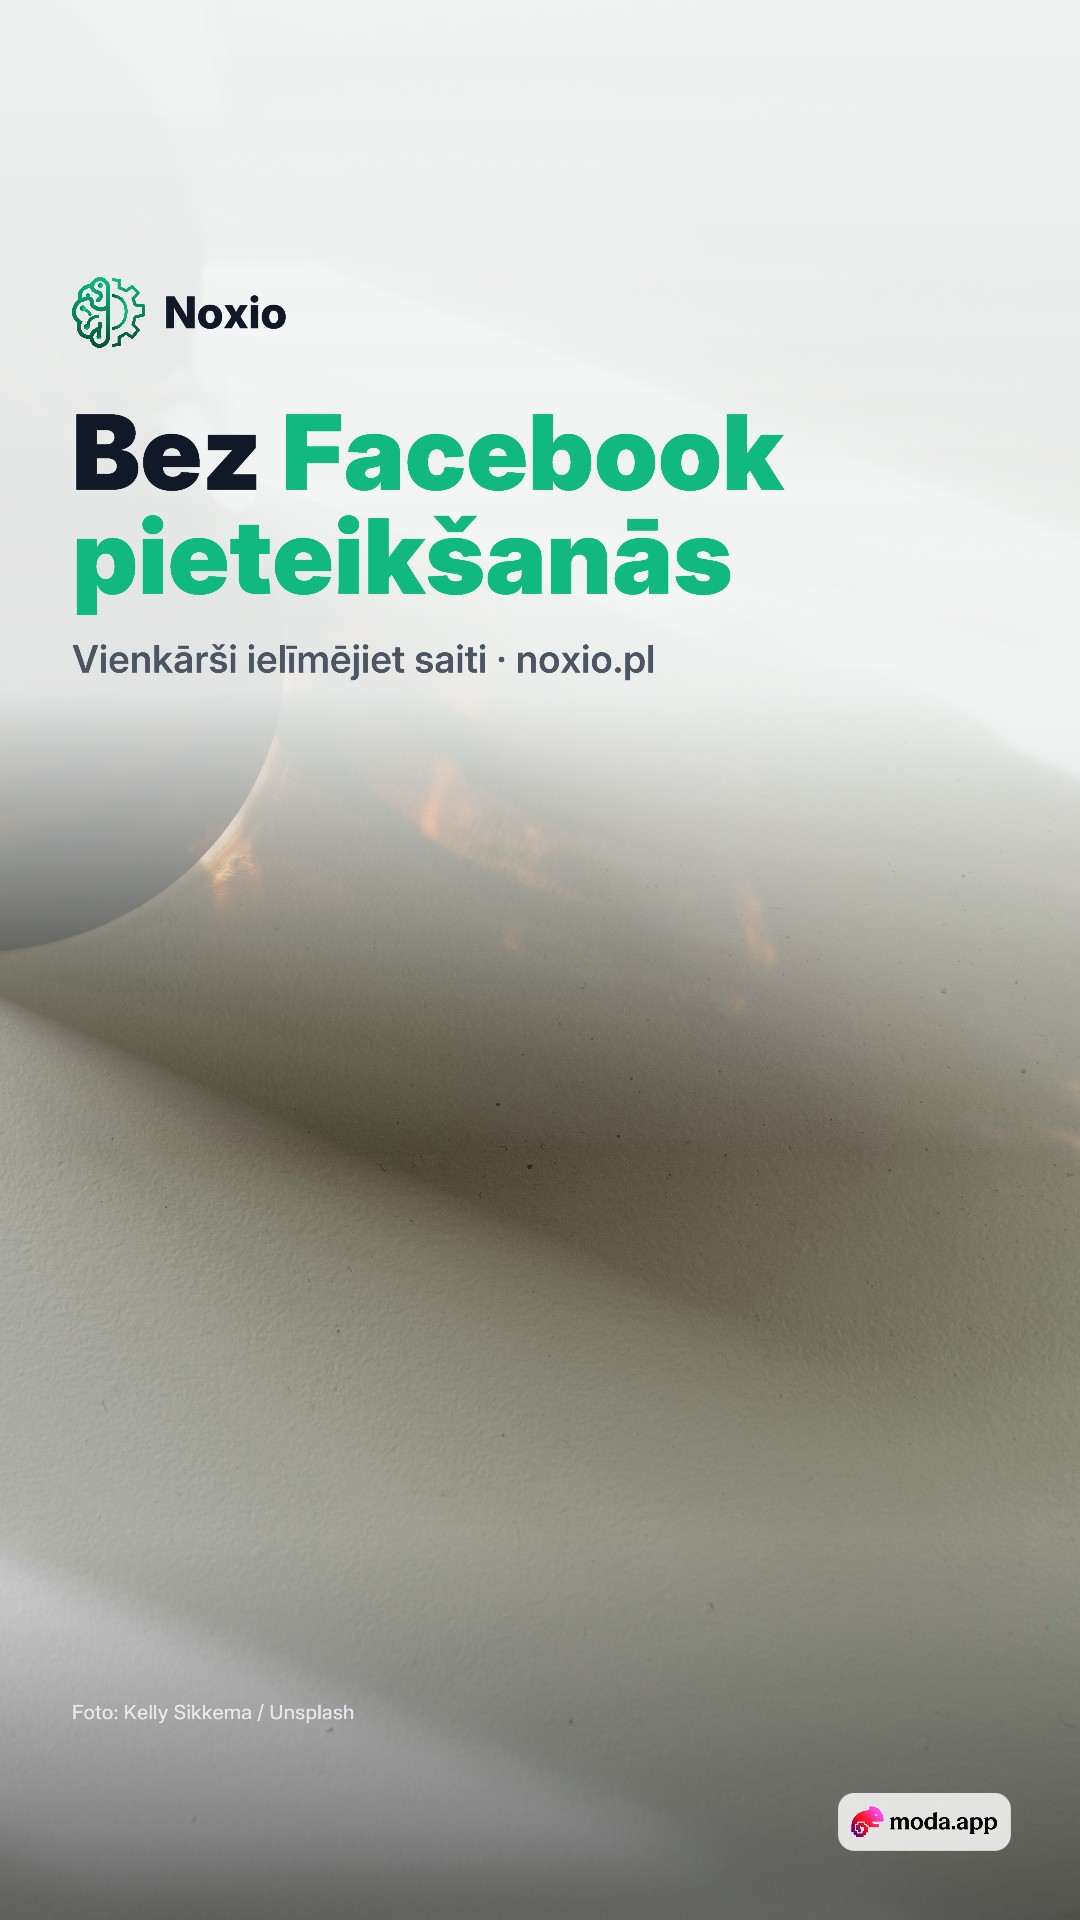
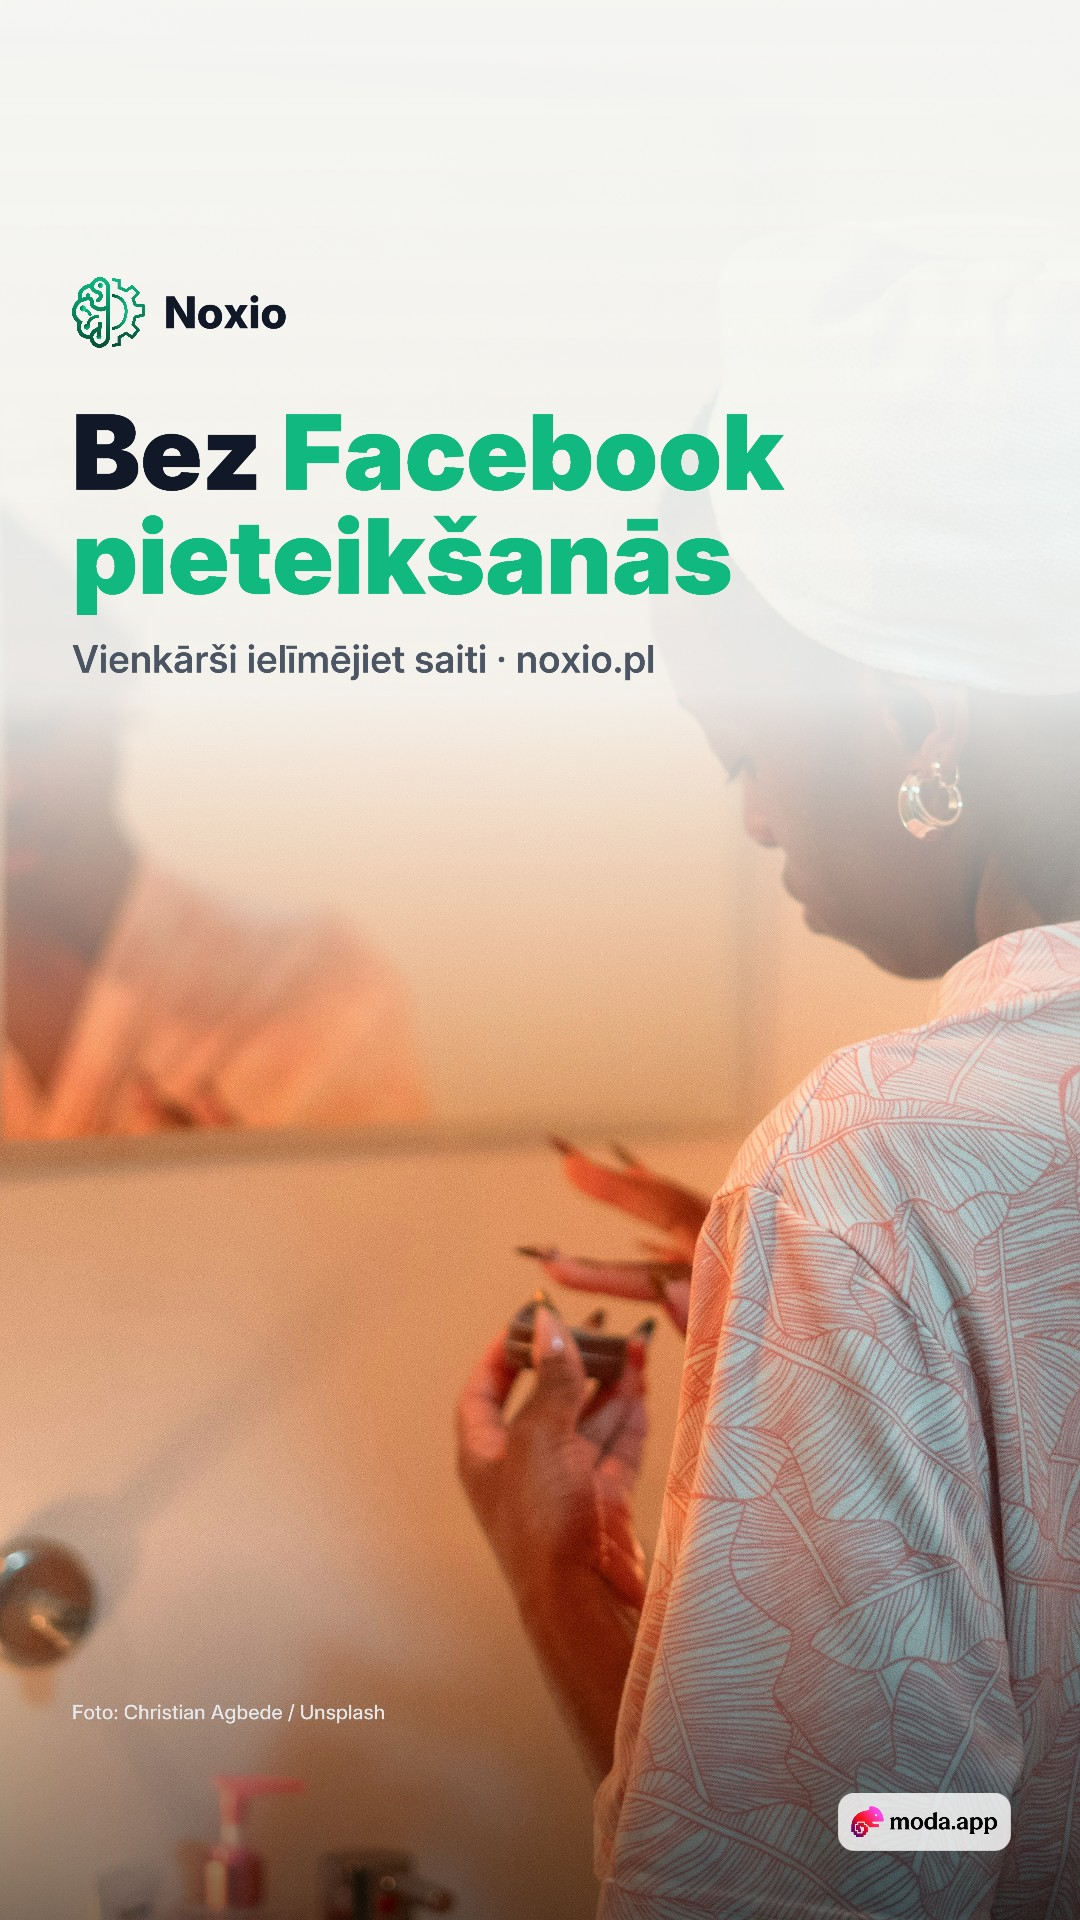
Docs: per-language episodes, new schedule, auto-publish; e19/e24 own products, new e20 cover
Claude-Session: https://claude.ai/code/session_01Kr1mLf3vFnABTkxhKi5XWi

diff --git a/CLAUDE.md b/CLAUDE.md
@@ -18,20 +18,27 @@ payments, courier labels, invoices, a warehouse. If a roadmap item must be menti
 
 ## Making a batch
 
-1. Continue the schedule in `episodes/plan.json`: Mondays and Thursdays, 10:00 Europe/Warsaw (check the UTC offset for DST).
-2. Write new `episodes/eNN.json` files with fresh angles; mostly Russian, about one Latvian and one Polish per eight.
+1. Continue the schedule in `episodes/plan.json` (Europe/Warsaw, check the UTC offset for DST):
+   Mondays and Thursdays — RU at 10:00 **and** PL at 14:00; Wednesdays — LV at 10:00; Fridays — EN at 10:00.
+2. Every language gets its own episode: a different angle, product niche (`niche`), theme (`theme`), scene order and cover.
+   Never translate another episode — videos must not look like copies of each other. The RU and PL episodes of the same
+   day must differ in niche and theme. Retired copies stay in `plan.json` with `status: retired`.
    Keep heads to the line counts the template expects (pain ≤ 3, solution ≤ 4, ai ≤ 3, connect ≤ 4, messenger ≤ 3).
 3. `scripts/preview_all.sh` each new episode and look at the contact sheets before rendering.
 4. `scripts/make_episode.sh` each episode, then check duration with ffprobe and look at a few frames.
-5. Add the episodes to `plan.json` (caption, date, offset, url, `status: planned`, plus `cover`/`thumbnail`/`aiGenerated`
-   when the episode has a cover, otherwise `coverMs: 3000`), commit and push.
-6. Schedule each as an Instagram REEL + Facebook REEL with manual approval (`autoPublish: false`), then set `status: scheduled`.
+5. Add the episodes to `plan.json` (caption in the episode's language, date, offset, url, `status: planned`, plus
+   `cover`/`thumbnail`/`aiGenerated` when the episode has a cover, otherwise `coverMs: 3000`), commit and push.
+6. Schedule each as an Instagram REEL + Facebook REEL with `autoPublish: true` (Maxim's decision, 2026-10-15),
+   then set `status: scheduled`.
 
 ## Covers
 
 Episodes with a file in `assets/covers/eNN.jpg` start with a `cover` scene and use that file as `videoThumbnailUrl`
-(raw.githubusercontent.com URL); set `instagramData.isAiGenerated: true` when the cover photo is AI-generated.
-New covers are designed in Moda (Noxio brand kit, 1080×1920, photo + headline + logo, essentials inside y 250–1670).
-Moda exports cannot be downloaded from the build sandbox: if a cover exists only in Moda, pass its per-page JPEG export URL
-as `videoThumbnailUrl` and start the episode with a `hook` scene instead of `cover`. Never crop or hide the moda.app badge
-that free-plan exports carry.
+(raw.githubusercontent.com URL). Covers are designed in Moda (canvas "Noxio — обложки Reels", Noxio light brand kit,
+1080×1920): a stock photo from Unsplash (`file_search` with `source: "stock"`), logo, headline in the episode's language,
+a one-line sub, and a small photo credit ("Fot./Foto/Photo/Фото: <author> / Unsplash"). Dark-theme episodes put the
+headline at the bottom over a dark gradient; light ones at the top over a light gradient.
+Export the page as JPEG and download it straight into `assets/covers/` (assets-cdn.moda.app is reachable).
+Set `instagramData.isAiGenerated: true` only when the photo is AI-generated; stock photos are `false`.
+If a Moda export cannot be downloaded, pass its JPEG export URL as `videoThumbnailUrl` and start the episode with a
+`hook` scene instead of `cover`. Never crop or hide the moda.app badge that free-plan exports carry.

diff --git a/README.md b/README.md
@@ -8,13 +8,14 @@ soundtrack is timed to the cuts.
 
 | Path | What it is |
 | --- | --- |
-| `template/` | HTML/CSS/GSAP template: `template.js` (scenes + timeline), `l10n.js` (RU/LV/PL strings and default copy), `style.css` (Noxio light theme: #11B981, #0098B7, Inter) |
+| `template/` | HTML/CSS/GSAP template: `template.js` (scenes + timeline), `l10n.js` (RU/LV/PL/EN strings and default copy), `niches.js` (product sets: cosmetics, shoes, kids, accessories, home), `style.css` (Noxio light and dark themes: #11B981, #0098B7, Inter) |
 | `episodes/eNN.json` | One episode: `lang` and an ordered list of `scenes` with optional text overrides |
 | `episodes/plan.json` | Publishing plan: date, caption, cover frame, video URL and status per episode |
 | `scripts/make_episode.sh` | Render one episode end to end into `videos/<id>.mp4` |
 | `scripts/preview_all.sh` | Key-frame contact sheets in `build/` for checking layouts before a full render |
 | `videos/` | Finished MP4s, served publicly via raw.githubusercontent.com for scheduling |
 | `assets/logo.png` | Noxio logo |
+| `assets/covers/` | Cover images (one per episode), also used as Reel thumbnails |
 
 ## Scene types
 
@@ -24,6 +25,10 @@ use it instead of `hook` when a cover exists. Covers are designed in Moda (photo
 file is used as the Reel thumbnail.
 Any scene accepts `kicker` (small label, e.g. "Шаг 1"). Heads are arrays of lines; `[text]` highlights in emerald,
 `{text}` in teal. `connect` accepts `"only": "link"` to show only the paste-a-link option.
+
+Episode options: `"lang"` (`ru`, `pl`, `lv`, `en`), `"theme": "dark"` (default light), `"niche"` (one of the sets in
+`niches.js`; default is clothing) and `"data"` for one-off overrides of any l10n field (`feed`, `table`, `ai`, `chat`…).
+The soundtrack's tempo, key and chord progression are picked from the episode id, so every video sounds different.
 
 ```json
 { "id": "e02", "lang": "ru", "scenes": [
